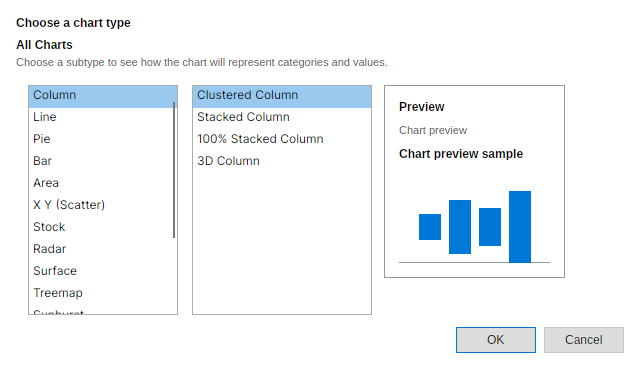
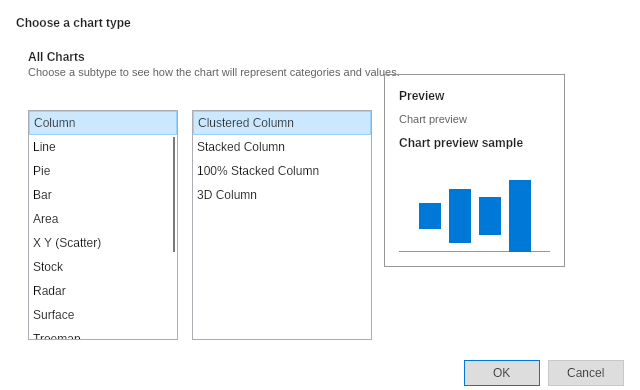
FreeX: align Change Chart Type Avalonia picker

diff --git a/src/FreeX.App.Avalonia/MainWindow.ChartTabs.cs b/src/FreeX.App.Avalonia/MainWindow.ChartTabs.cs
@@ -202,48 +202,36 @@ public sealed partial class MainWindow
         dialog.MinHeight = ChartTypeChangePlanner.DialogHeight;
         dialog.SizeToContent = SizeToContent.Manual;
 
-        var (okButton, cancelButton, buttonRow) = CreateChartDialogButtons("ChangeChartType");
+        var (okButton, cancelButton, buttonRow) = CreateChartDialogButtons(
+            "ChangeChartType",
+            ChartTypeChangePlanner.PickerButtonWidth);
         okButton.Click += (_, _) => dialog.Close(subtypeGallery.SelectedItem is ChartTypePickerOptionPlan picked ? (ChartType?)picked.Type : null);
         cancelButton.Click += (_, _) => dialog.Close((ChartType?)null);
 
-        // Body grid: category list | subtype gallery | preview.
-        var bodyGrid = new Grid { Margin = new Thickness(ChartTypeChangePlanner.PickerColumnGap, 8, ChartTypeChangePlanner.PickerColumnGap, 0) };
+        // WPF keeps the All Charts heading/help in the picker grid's first row. The lists begin in
+        // the second row, while the preview spans both rows; preserve that vertical relationship.
+        var bodyGrid = new Grid
+        {
+            Height = ChartTypeChangePlanner.PickerPanelHeight,
+            Margin = new Thickness(ChartTypeChangePlanner.PickerColumnGap),
+        };
         bodyGrid.ColumnDefinitions.Add(new ColumnDefinition { Width = new GridLength(ChartTypeChangePlanner.PickerCategoryColumnWidth) });
         bodyGrid.ColumnDefinitions.Add(new ColumnDefinition { Width = new GridLength(ChartTypeChangePlanner.PickerSubtypeColumnWidth) });
         bodyGrid.ColumnDefinitions.Add(new ColumnDefinition { Width = new GridLength(ChartTypeChangePlanner.PickerPreviewWidth) });
+        bodyGrid.RowDefinitions.Add(new RowDefinition { Height = GridLength.Auto });
+        bodyGrid.RowDefinitions.Add(new RowDefinition { Height = new GridLength(1, GridUnitType.Star) });
 
-        categoryList.Margin = new Thickness(0, 0, ChartTypeChangePlanner.PickerColumnGap, 0);
-        Grid.SetColumn(categoryList, 0);
-        bodyGrid.Children.Add(categoryList);
-
-        subtypeGallery.Margin = new Thickness(0, 0, ChartTypeChangePlanner.PickerColumnGap, 0);
-        Grid.SetColumn(subtypeGallery, 1);
-        bodyGrid.Children.Add(subtypeGallery);
-
-        Grid.SetColumn(preview, 2);
-        bodyGrid.Children.Add(preview);
-
-        dialog.Content = new StackPanel
+        var pickerHeading = new StackPanel
         {
-            Margin = new Thickness(16),
-            Spacing = 4,
             Children =
             {
-                // WPF "Choose a chart type" heading + "All Charts" subheading and help text.
-                new TextBlock
-                {
-                    Text = UiText.Get(ChartTypePickerPlanner.ChooseChartTypeHeadingKey),
-                    FontSize = 12,
-                    FontFamily = FormulaBarFontFamily,
-                    FontWeight = FontWeight.SemiBold,
-                },
                 new TextBlock
                 {
                     Text = UiText.Get(panel.HeadingResourceKey),
                     FontSize = 12,
                     FontFamily = FormulaBarFontFamily,
                     FontWeight = FontWeight.SemiBold,
-                    Margin = new Thickness(0, 4, 0, 0),
+                    Margin = new Thickness(0, 0, 0, 2),
                 },
                 new TextBlock
                 {
@@ -252,13 +240,49 @@ public sealed partial class MainWindow
                     FontFamily = FormulaBarFontFamily,
                     TextWrapping = TextWrapping.Wrap,
                     Foreground = Brush(96, 96, 96),
-                    Margin = new Thickness(0, 0, 0, 4),
+                    Margin = new Thickness(0, 0, 0, 6),
+                },
+            },
+        };
+        Grid.SetColumnSpan(pickerHeading, 3);
+        bodyGrid.Children.Add(pickerHeading);
+
+        categoryList.Margin = new Thickness(0, ChartTypeChangePlanner.PickerColumnGap * 2, ChartTypeChangePlanner.PickerColumnGap, 0);
+        Grid.SetColumn(categoryList, 0);
+        Grid.SetRow(categoryList, 1);
+        bodyGrid.Children.Add(categoryList);
+
+        subtypeGallery.Margin = new Thickness(0, ChartTypeChangePlanner.PickerColumnGap * 2, ChartTypeChangePlanner.PickerColumnGap, 0);
+        Grid.SetColumn(subtypeGallery, 1);
+        Grid.SetRow(subtypeGallery, 1);
+        bodyGrid.Children.Add(subtypeGallery);
+
+        preview.Margin = new Thickness(0, ChartTypeChangePlanner.PickerColumnGap * 2, 0, 0);
+        Grid.SetColumn(preview, 2);
+        Grid.SetRowSpan(preview, 2);
+        bodyGrid.Children.Add(preview);
+
+        dialog.Content = new StackPanel
+        {
+            Margin = new Thickness(16),
+            Spacing = 0,
+            Children =
+            {
+                // WPF "Choose a chart type" heading.
+                new TextBlock
+                {
+                    Text = UiText.Get(ChartTypePickerPlanner.ChooseChartTypeHeadingKey),
+                    FontSize = 12,
+                    FontFamily = FormulaBarFontFamily,
+                    FontWeight = FontWeight.SemiBold,
+                    Margin = new Thickness(0, 0, 0, 8),
                 },
                 bodyGrid,
                 buttonRow,
             },
         };
-        ConfigurePivotDialogLifecycle(dialog, subtypeGallery);
+        AvaloniaCompactDialogChrome.ApplyWindow(dialog, ChartDialogChromeStyle);
+        ConfigureChartDialogKeyboardLifecycle(dialog, subtypeGallery);
 
         return await dialog.ShowDialog<ChartType?>(this);
     }

diff --git a/tests/FreeX.App.Avalonia.Tests/AvaloniaChartFormatDialogSourceTests.cs b/tests/FreeX.App.Avalonia.Tests/AvaloniaChartFormatDialogSourceTests.cs
@@ -41,6 +41,7 @@ public sealed class AvaloniaChartFormatDialogSourceTests
     {
         var chartTabsSource = File.ReadAllText(RepoFile("src", "FreeX.App.Avalonia", "MainWindow.ChartTabs.cs"));
         var chartRemainingDialogsSource = File.ReadAllText(RepoFile("src", "FreeX.App.Avalonia", "MainWindow.ChartRemainingDialogs.cs"));
+        var chartFormatDialogsSource = File.ReadAllText(RepoFile("src", "FreeX.App.Avalonia", "MainWindow.ChartFormatDialogs.cs"));
         var combined = chartTabsSource + Environment.NewLine + chartRemainingDialogsSource;
 
         combined.Should().Contain("private bool TryGetSelectedChart(ChartWorkflowCommandDescriptor command");
@@ -55,6 +56,18 @@ public sealed class AvaloniaChartFormatDialogSourceTests
         combined.Should().Contain("ChartTypeChangePlanner.PickerCategoryWidth");
         combined.Should().Contain("ChartTypeChangePlanner.PickerSubtypeWidth");
         combined.Should().Contain("ChartTypeChangePlanner.PickerListHeight");
+        combined.Should().Contain("ChartTypeChangePlanner.PickerButtonWidth");
+        combined.Should().Contain("Height = ChartTypeChangePlanner.PickerPanelHeight");
+        combined.Should().Contain("bodyGrid.RowDefinitions.Add(new RowDefinition { Height = GridLength.Auto });");
+        combined.Should().Contain("Grid.SetRow(categoryList, 1);");
+        combined.Should().Contain("Grid.SetRow(subtypeGallery, 1);");
+        combined.Should().Contain("Grid.SetRowSpan(preview, 2);");
+        combined.Should().Contain("Margin = new Thickness(0, 0, 0, 6),");
+        combined.Should().Contain("Margin = new Thickness(0, 0, 0, 8),");
+        combined.Should().Contain("AvaloniaCompactDialogChrome.ApplyWindow(dialog, ChartDialogChromeStyle);");
+        combined.Should().Contain("ConfigureChartDialogKeyboardLifecycle(dialog, subtypeGallery);");
+        chartFormatDialogsSource.Should().Contain("AutomationProperties.SetName(okButton");
+        chartFormatDialogsSource.Should().Contain("AutomationProperties.SetName(cancelButton");
         combined.Should().Contain("ChartWorkflowCommandCatalog.SelectDataSource");
         combined.Should().Contain("ChartWorkflowCommandCatalog.MoveChart");
         combined.Should().Contain("ChartWorkflowCommandCatalog.FormatChartArea");

diff --git a/src/FreeX.App.Avalonia/MainWindow.ChartFormatDialogs.cs b/src/FreeX.App.Avalonia/MainWindow.ChartFormatDialogs.cs
@@ -1347,12 +1347,16 @@ public sealed partial class MainWindow
         return dialog;
     }
 
-    private static (Button Ok, Button Cancel, StackPanel Row) CreateChartDialogButtons(string idPrefix)
+    private static (Button Ok, Button Cancel, StackPanel Row) CreateChartDialogButtons(
+        string idPrefix,
+        double buttonWidth = 80)
     {
-        var okButton = CreateChartButton(UiText.Get("Common_Ok"), 80, isDefault: true);
+        var okButton = CreateChartButton(UiText.Get("Common_Ok"), buttonWidth, isDefault: true);
+        AutomationProperties.SetName(okButton, UiText.CreateAutomationName(UiText.Get("Common_Ok")));
         AutomationProperties.SetAutomationId(okButton, $"{idPrefix}OkButton");
-        var cancelButton = CreateChartButton(UiText.Get("Common_Cancel"), 80);
+        var cancelButton = CreateChartButton(UiText.Get("Common_Cancel"), buttonWidth);
         cancelButton.IsCancel = true;
+        AutomationProperties.SetName(cancelButton, UiText.CreateAutomationName(UiText.Get("Common_Cancel")));
         AutomationProperties.SetAutomationId(cancelButton, $"{idPrefix}CancelButton");
         var row = CreateChartDialogActionRow([okButton, cancelButton], new Thickness(0, 8, 0, 0));
         return (okButton, cancelButton, row);

diff --git a/tests/FreeX.App.Host.Tests/ChartDialogTests.cs b/tests/FreeX.App.Host.Tests/ChartDialogTests.cs
@@ -317,6 +317,7 @@ public sealed partial class ChartDialogTests
         changeSource.Should().Contain("ChartTypeChangePlanner.PickerCategoryColumnWidth");
         changeSource.Should().Contain("ChartTypeChangePlanner.PickerSubtypeColumnWidth");
         changeSource.Should().Contain("ChartTypeChangePlanner.PickerSubtypeWidth");
+        pickerSource.Should().Contain("ChartTypeChangePlanner.PickerButtonWidth");
         pickerSource.Should().Contain("ChartTypeChangePlanner.PickerCategoryWidth");
         pickerSource.Should().Contain("ChartTypeChangePlanner.PickerPreviewWidth");
         pickerSource.Should().Contain("ChartTypeChangePlanner.PickerColumnGap");

diff --git a/src/FreeX.App.Presentation/Charts/Editing/ChartTypeChangePlanner.cs b/src/FreeX.App.Presentation/Charts/Editing/ChartTypeChangePlanner.cs
@@ -55,6 +55,7 @@ public static class ChartTypeChangePlanner
     public const double PickerPreviewWidth = 180;
     public const double PickerColumnGap = 12;
     public const double PickerListHeight = 230;
+    public const double PickerButtonWidth = 76;
 
     // English display labels and shell-localization keys for every renderer-authorable family, in a stable gallery-style order.
     private static readonly (ChartType Type, string DisplayName, string DisplayNameKey)[] Catalog =

diff --git a/tests/FreeX.App.Presentation.Tests/Charts/ChartEditingPlannerTests.cs b/tests/FreeX.App.Presentation.Tests/Charts/ChartEditingPlannerTests.cs
@@ -176,6 +176,7 @@ public sealed class ChartEditingPlannerTests
         ChartTypeChangePlanner.PickerPreviewWidth.Should().Be(180);
         ChartTypeChangePlanner.PickerColumnGap.Should().Be(12);
         ChartTypeChangePlanner.PickerListHeight.Should().Be(230);
+        ChartTypeChangePlanner.PickerButtonWidth.Should().Be(76);
     }
 
     [Fact]

diff --git a/src/FreeX.App.Host/ChartTypeDialogs.PickerUi.cs b/src/FreeX.App.Host/ChartTypeDialogs.PickerUi.cs
@@ -199,5 +199,5 @@ public sealed partial class InsertChartDialog
         };
 
     internal static StackPanel CreateButtonRow(Action accept) =>
-        DialogButtonRowFactory.Create(accept, buttonWidth: 76);
+        DialogButtonRowFactory.Create(accept, buttonWidth: ChartTypeChangePlanner.PickerButtonWidth);
 }

diff --git a/docs/parity/avalonia-parity-wave143-freex-change-chart-type-20260804.md b/docs/parity/avalonia-parity-wave143-freex-change-chart-type-20260804.md
@@ -1,0 +1,55 @@
+# FreeX Avalonia parity Wave 143: Change Chart Type
+
+## Scope
+
+This slice revisits `dialog.ChangeChartType`, the highest remaining FreeX paired-dialog outlier
+after the Wave 139 geometry alignment. The retained WPF authority is nonblank but historical: it
+has an empty subtype-gallery column and was captured at 144 DPI (`960x585`, logical `640x390`).
+The current-source WPF recapture is not part of this slice and no blank WPF output was promoted.
+
+## Correction
+
+- The shared `ChartTypeChangePlanner` now owns the 76-unit picker action-button width alongside the
+  existing dialog, list, column, and preview geometry.
+- WPF and Avalonia chart-type pickers consume that shared button contract.
+- The Avalonia picker now uses the WPF two-row panel geometry: shared heading/help in row one,
+  category and subtype lists in row two with the WPF 24-unit top inset, and the preview spanning
+  both rows.
+- The Avalonia Change Chart Type window now applies the shared compact dialog chrome, including
+  WPF-aligned list borders, selection styling, inherited typography, and button treatment.
+- The route uses the chart-dialog keyboard lifecycle, preserving subtype-gallery initial focus,
+  tab cycling, and Escape cancellation for the production picker.
+- Avalonia OK/Cancel buttons now expose localized automation names in addition to their stable ids.
+
+The shared category catalog, current-type selection, subtype gallery, preview, and command/planner
+validation remain unchanged. No unsupported chart family was surfaced and no command behavior was
+relaxed to improve a pixel score.
+
+## Evidence
+
+Before: `docs/parity/dialog-visual-assets/avalonia-capture/dialog.ChangeChartType.png` was the
+Wave 139 `640x390` nonblank capture, compared against the retained WPF frame at logical `640x390`.
+The committed summary recorded a triage score of `0.084227`; the WPF frame's empty gallery was an
+evidence-state residual, not a valid current-source semantic target.
+
+After: the fresh Docker/Xvfb capture was written under
+`artifacts/wave143-linux-change-chart-type-run2/`, reported `app_exit=0` and
+`capture_validated=true`, and passed the exact `640x390` and nonblank PNG checks. The verified PNG
+was promoted to `docs/parity/dialog-visual-assets/avalonia-capture/dialog.ChangeChartType.png`.
+The regenerated paired summary records triage `0.077239`, with zero nonblank, logical-size, and
+expected-size failures across all `94/94` paired surfaces.
+
+## Residuals
+
+The WPF authority remains an older empty-gallery frame, so the numeric comparison is not a final
+semantic parity verdict. A valid current-source WPF Change Chart Type capture is still needed before
+the remaining pixel difference can be attributed between shell rendering and authority provenance.
+The fresh Avalonia evidence itself is exact-size, populated, and nonblank.
+
+## Verification
+
+- `dotnet test tests/FreeX.App.Presentation.Tests/FreeX.App.Presentation.Tests.csproj --configuration Release --filter "FullyQualifiedName~ChartEditingPlannerTests"` - 179 passed.
+- `dotnet test tests/FreeX.App.Host.Tests/FreeX.App.Host.Tests.csproj --configuration Release --disable-build-servers -p:UseSharedCompilation=false -p:NodeReuse=false /nr:false -m:1 --filter "FullyQualifiedName~ChangeChartTypeDialog"` - 4 passed.
+- `dotnet test tests/FreeX.App.Avalonia.Tests/FreeX.App.Avalonia.Tests.csproj --configuration Release --filter "FullyQualifiedName~AvaloniaChartFormatDialogSourceTests" --no-restore --disable-build-servers -p:UseSharedCompilation=false -p:NodeReuse=false /nr:false -m:1` - 10 passed.
+- `powershell.exe -NoProfile -ExecutionPolicy Bypass -File tools\Run-LinuxParityCapture.ps1 -OutputDir artifacts/wave143-linux-change-chart-type-run2 -SurfaceId dialog.ChangeChartType -Width 640 -Height 390 -TimeoutSeconds 180` - `app_exit=0`, `capture_validated=true`.
+- `tools/Generate-DialogVisualEvidenceSummary.ps1` - 94 paired surfaces, 0 nonblank failures, 0 logical/expected-size mismatches.

diff --git a/docs/parity/dialog-visual-evidence-summary.md b/docs/parity/dialog-visual-evidence-summary.md
@@ -63,7 +63,7 @@ Outliers are ranked by a deterministic triage score: normalized 32x32 ARGB sampl
 | Surface id | WPF logical size | Avalonia logical size | Raw PNG sizes | Bucket | Evidence flag | Score | Sample delta | Luma delta | Non-bg delta |
 | --- | ---: | ---: | --- | --- | --- | ---: | ---: | ---: | ---: |
 | dialog.DataTable | 360x210 | 360x210 | 540x315 px @ 144 DPI vs 360x210 px @ 96 DPI |  |  | 0.101 | 0.043 | 0.006 | 0.051 |
-| dialog.ChangeChartType | 640x390 | 640x390 | 960x585 px @ 144 DPI vs 640x390 px @ 96 DPI |  |  | 0.084 | 0.046 | 0.009 | 0.029 |
+| dialog.ChangeChartType | 640x390 | 640x390 | 960x585 px @ 144 DPI vs 640x390 px @ 96 DPI |  |  | 0.077 | 0.046 | 0.005 | 0.027 |
 | dialog.PivotTableOptions.Display | 520x500 | 520x500 | 520x500 px @ 96 DPI vs 520x500 px @ 96 DPI |  |  | 0.069 | 0.045 | 0.006 | 0.019 |
 | dialog.InsertHyperlink | 560x300 | 560x300 | 840x450 px @ 144 DPI vs 560x300 px @ 96 DPI |  |  | 0.069 | 0.037 | 0.002 | 0.030 |
 | dialog.AccessibilityChecker | 360x520 | 360x520 | 360x520 px @ 96 DPI vs 360x520 px @ 96 DPI |  |  | 0.067 | 0.044 | 0.001 | 0.021 |
@@ -95,7 +95,7 @@ These rows have a DPI-normalized checked-in PNG size that disagrees with the dia
 | dialog.AdvancedFilter | dialog.AdvancedFilter.png | 420x340 | 630x510 px @ 144 DPI | True | dialog.AdvancedFilter.png | 420x340 | 420x340 px @ 96 DPI | True | True | 0.057 |
 | dialog.AllowEditRanges | dialog.AllowEditRanges.png | 430x420 | 430x420 px @ 96 DPI | True | dialog.AllowEditRanges.png | 430x420 | 430x420 px @ 96 DPI | True | True | 0.023 |
 | dialog.AutoFilter | dialog.AutoFilter.png | 312x436.689 | 468x655 px @ 144 DPI | True | dialog.AutoFilter.png | 312x437 | 312x437 px @ 96 DPI | True | True | 0.054 |
-| dialog.ChangeChartType | dialog.ChangeChartType.png | 640x390 | 960x585 px @ 144 DPI | True | dialog.ChangeChartType.png | 640x390 | 640x390 px @ 96 DPI | True | True | 0.084 |
+| dialog.ChangeChartType | dialog.ChangeChartType.png | 640x390 | 960x585 px @ 144 DPI | True | dialog.ChangeChartType.png | 640x390 | 640x390 px @ 96 DPI | True | True | 0.077 |
 | dialog.ConditionalFormatManage | dialog.ConditionalFormatManage.png | 560x420 | 840x630 px @ 144 DPI | True | dialog.ConditionalFormatManage.png | 560x420 | 560x420 px @ 96 DPI | True | True | 0.065 |
 | dialog.ConditionalFormatNewRule | dialog.ConditionalFormatNewRule.png | 634.256x334 | 634x334 px @ 96 DPI | True | dialog.ConditionalFormatNewRule.png | 634x334 | 634x334 px @ 96 DPI | True | True | 0.046 |
 | dialog.Consolidate | dialog.Consolidate.png | 380x420 | 380x420 px @ 96 DPI | True | dialog.Consolidate.png | 380x420 | 380x420 px @ 96 DPI | True | True | 0.031 |
